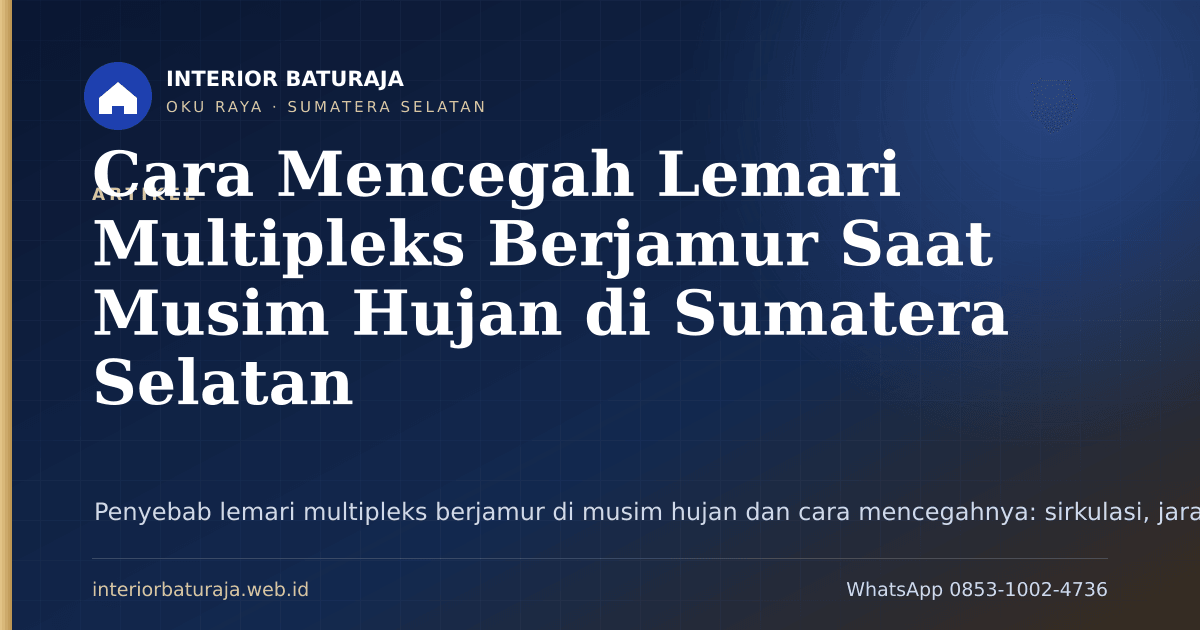
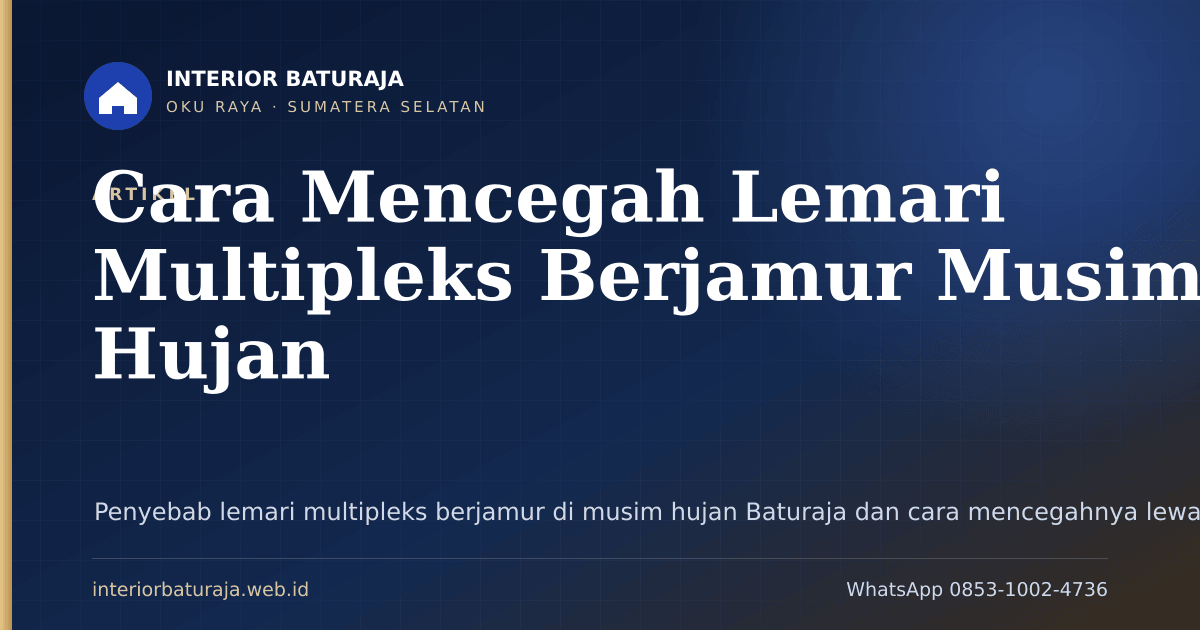
Terbit artikel lemari multipleks berjamur musim hujan; hero 4:3 dan normalisasi judul-meta

Changed region(s): [[0.0617, 0.2413, 1.0, 0.6635], [0.6167, 0.7841, 1.0, 0.8444]]

diff --git a/src/content/posts/cara-mencegah-lemari-multipleks-berjamur-musim-hujan.md b/src/content/posts/cara-mencegah-lemari-multipleks-berjamur-musim-hujan.md
@@ -1,10 +1,12 @@
 ---
-title: "Cara Mencegah Lemari Multipleks Berjamur Saat Musim Hujan di Sumatera Selatan"
-description: "Penyebab lemari multipleks berjamur di musim hujan dan cara mencegahnya: sirkulasi, jarak dinding, edging, PVC board, serta tanda-tanda kerusakan yang perlu dicek."
+title: "Cara Mencegah Lemari Multipleks Berjamur Musim Hujan"
+description: "Penyebab lemari multipleks berjamur di musim hujan Baturaja dan cara mencegahnya lewat sirkulasi, jarak dinding, edging, dan PVC board 18mm."
 category: "Blog"
-tags: ["Lemari & Kamar Set", "Edukasi & Material"]
+tags: ["Lemari & Kamar Set", "Edukasi & Material", "Baturaja"]
 targetKeywords: ["lemari multipleks berjamur", "cara mencegah jamur lemari", "lemari lembap musim hujan", "multipleks 18mm anti jamur"]
 relatedServiceUrl: "/layanan/lemari-custom-kamar-set-baturaja/"
+heroImage: "/images/blog/cara-mencegah-lemari-multipleks-berjamur-musim-hujan.webp"
+heroAlt: "Teknisi memeriksa plint dan celah ventilasi lemari pakaian multipleks HPL di kamar tidur"
 faqs:
   - question: "Mengapa lemari multipleks mudah berjamur di musim hujan?"
     answer: "Karena multipleks menyerap uap air dari udara dan dari dinding yang lembap. Kalau lemari menempel rapat ke dinding tanpa sirkulasi, kelembapan terperangkap dan jamur tumbuh pada suhu 25 sampai 30 derajat Celsius."
@@ -14,7 +16,7 @@ faqs:
     answer: "PVC board tidak menyerap air sehingga tidak menjadi media tumbuh jamur. Namun jamur masih bisa menempel pada permukaan HPL yang kotor, jadi kebersihan tetap perlu dijaga."
   - question: "Berapa jarak ideal antara lemari dan dinding?"
     answer: "Sekitar 3 sampai 5 sentimeter agar udara bisa mengalir. Kalau tidak memungkinkan, pasang lapisan penahan uap di belakang lemari dan biarkan celah di bagian atas terbuka."
-draft: true
+pubDate: 2026-11-24
 ---
 
 Musim hujan di Sumatera Selatan membawa perubahan yang cepat. Pagi terasa dingin dan lembap, siang panas, sore hujan lagi. Pergantian seperti ini membuat uap air masuk-keluar ruangan terus-menerus, dan lemari yang menempel rapat di dinding menjadi salah satu tempat pertama yang menunjukkannya.
@@ -49,15 +51,15 @@ Jamur membutuhkan tiga hal: kelembapan di atas 70 persen, suhu hangat, dan permu
 
 Bagian ini yang paling menentukan, karena setelah lemari terpasang, pilihannya menjadi terbatas.
 
-**Beri jarak dari dinding.** Kami biasanya menyisakan 3–5 sentimeter di belakang lemari. Untuk lemari full plafon, celah itu ditutup panel atas berlubang agar tidak terlihat dari depan tetapi udara tetap bisa lewat.
+**Beri jarak dari dinding.** Kami biasanya menyisakan 3 sampai 5 sentimeter di belakang lemari. Untuk lemari full plafon, celah itu ditutup panel atas berlubang agar tidak terlihat dari depan tetapi udara tetap bisa lewat.
 
 **Pilih material sesuai lokasi.** Untuk dinding yang berbatasan dengan kamar mandi, rumah panggung, atau area dekat Danau Ranau, bagian badan lemari yang dekat lantai sebaiknya memakai PVC board 18mm. PVC tidak menyerap air, jadi tidak menjadi media jamur. Bagian atas tetap multipleks 18mm karena lebih kuat menahan beban gantungan.
 
 **Tutup semua tepi potongan.** Edging PVC di seluruh tepi papan, termasuk tepi yang tersembunyi di dalam. Ini pekerjaan yang tidak terlihat, tetapi menentukan umur lemari.
 
-**Pasang plint atau kaki.** Lemari tidak menempel langsung ke lantai. Plint PVC setinggi 5–8 sentimeter membuat sirkulasi udara di bawah lemari tetap ada dan melindungi papan dari air pel.
+**Pasang plint atau kaki.** Lemari tidak menempel langsung ke lantai. Plint PVC setinggi 5 sampai 8 sentimeter membuat sirkulasi udara di bawah lemari tetap ada dan melindungi papan dari air pel.
 
-**Rencanakan ventilasi.** Kalau lemari menutup seluruh dinding, buat lubang ventilasi kecil di panel atas atau sisakan celah 3–5 sentimeter dari plafon yang ditutup kasa agar serangga tidak masuk.
+**Rencanakan ventilasi.** Kalau lemari menutup seluruh dinding, buat lubang ventilasi kecil di panel atas atau sisakan celah 3 sampai 5 sentimeter dari plafon yang ditutup kasa agar serangga tidak masuk.
 
 **Hindari panel belakang penuh pada dinding lembap.** Untuk dinding yang benar-benar bermasalah, bagian belakang lemari bisa dibiarkan terbuka dengan rangka, atau diberi lapisan penahan uap sebelum lemari dipasang.
 
@@ -65,7 +67,7 @@ Bagian ini yang paling menentukan, karena setelah lemari terpasang, pilihannya m
 
 Tidak perlu rumit. Yang penting dilakukan secara konsisten:
 
-- **Buka pintu lemari 15–30 menit** saat pagi hari, terutama di musim hujan. Ini yang paling murah dan paling efektif.
+- **Buka pintu lemari 15 sampai 30 menit** saat pagi hari, terutama di musim hujan. Ini yang paling murah dan paling efektif.
 - **Jangan menaruh lemari tepat di depan jendela** yang menjadi satu-satunya sumber udara.
 - **Bersihkan bagian belakang** setiap tiga bulan. Debu yang menempel menahan kelembapan.
 - **Gunakan wadah tertutup** untuk sepatu dan barang yang baru dipakai.

diff --git a/RENCANA-KONTEN.md b/RENCANA-KONTEN.md
@@ -27,7 +27,7 @@ Total: **60 konten** dalam satu koleksi `src/content/posts/` (dibedakan frontmat
 | 15 | Paket Kamar Set Pengantin Baru di Baturaja | Blog | `paket-kamar-set-pengantin-baturaja.md` |
 | 16 | 8 Ide Lemari Bawah Tangga Multifungsi | Blog | `ide-lemari-bawah-tangga-multifungsi.md` |
 | 17 | Desain Walk-In Closet Minimalis dengan Pintu Kaca dan LED | Blog | `desain-walk-in-closet-minimalis-pintu-kaca-led.md` |
-| 18 | Cara Mencegah Lemari Multipleks Berjamur Saat Musim Hujan | Blog | `cara-mencegah-lemari-multipleks-berjamur-musim-hujan.md` |
+| 18 | ~~Cara Mencegah Lemari Multipleks Berjamur Saat Musim Hujan~~ (Terbit 2026-11-24, judul final: Cara Mencegah Lemari Multipleks Berjamur Musim Hujan) | Blog | `cara-mencegah-lemari-multipleks-berjamur-musim-hujan.md` |
 | 19 | Desain Kamar Tidur Anak Custom: Tempat Tidur Tingkat | Blog | `desain-kamar-tidur-anak-custom-tempat-tidur-tingkat.md` |
 | 20 | Lemari Custom Workshop vs Lemari Pabrikan Toko | Blog | `lemari-custom-workshop-vs-lemari-pabrikan.md` |
 | 21 | Inspirasi Dipan Custom dengan Laci Tersembunyi (Storage Bed) | Blog | `inspirasi-dipan-custom-storage-bed-laci.md` |
